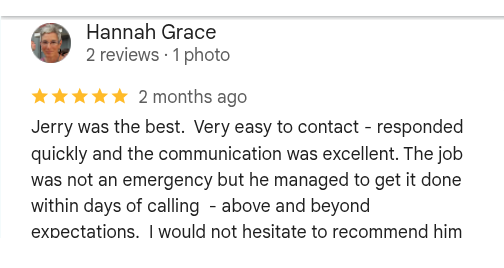
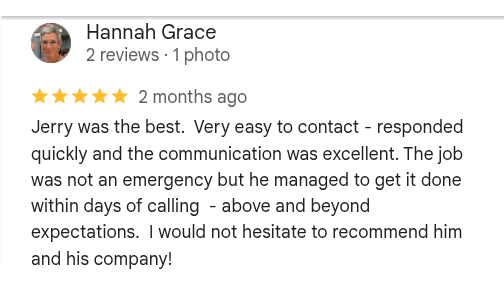
Restore the last line of Hannah Grace's review screenshot.
The image is rebuilt from the original upload and now ends after "and his company!" with the same bottom padding as the other reviews.

diff --git a/src/data/review-shots.ts b/src/data/review-shots.ts
@@ -4,7 +4,7 @@ export const reviewShots = [
   {
     id: "hannah",
     width: 504,
-    height: 268,
+    height: 299,
     alt: 'Google review by Hannah Grace, 5 stars: "Jerry was the best. Very easy to contact - responded quickly and the communication was excellent. The job was not an emergency but he managed to get it done within days of calling - above and beyond expectations. I would not hesitate to recommend him and his company!"',
   },
   {
